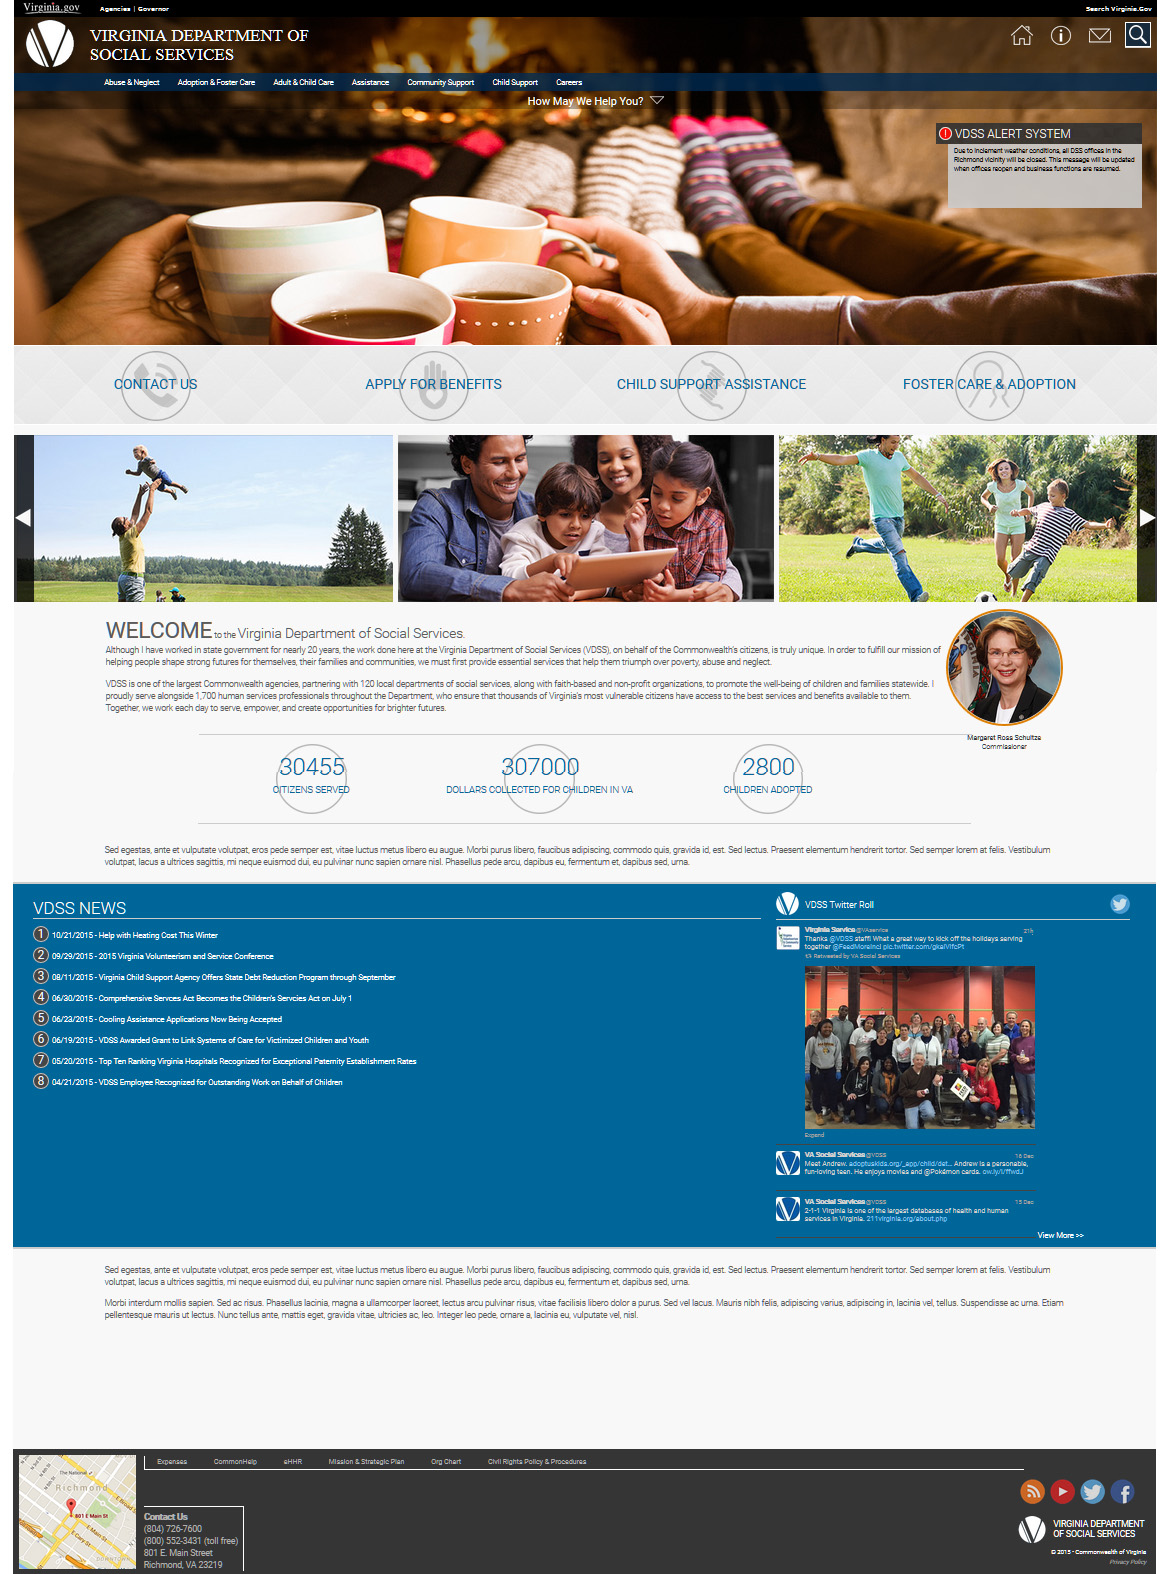
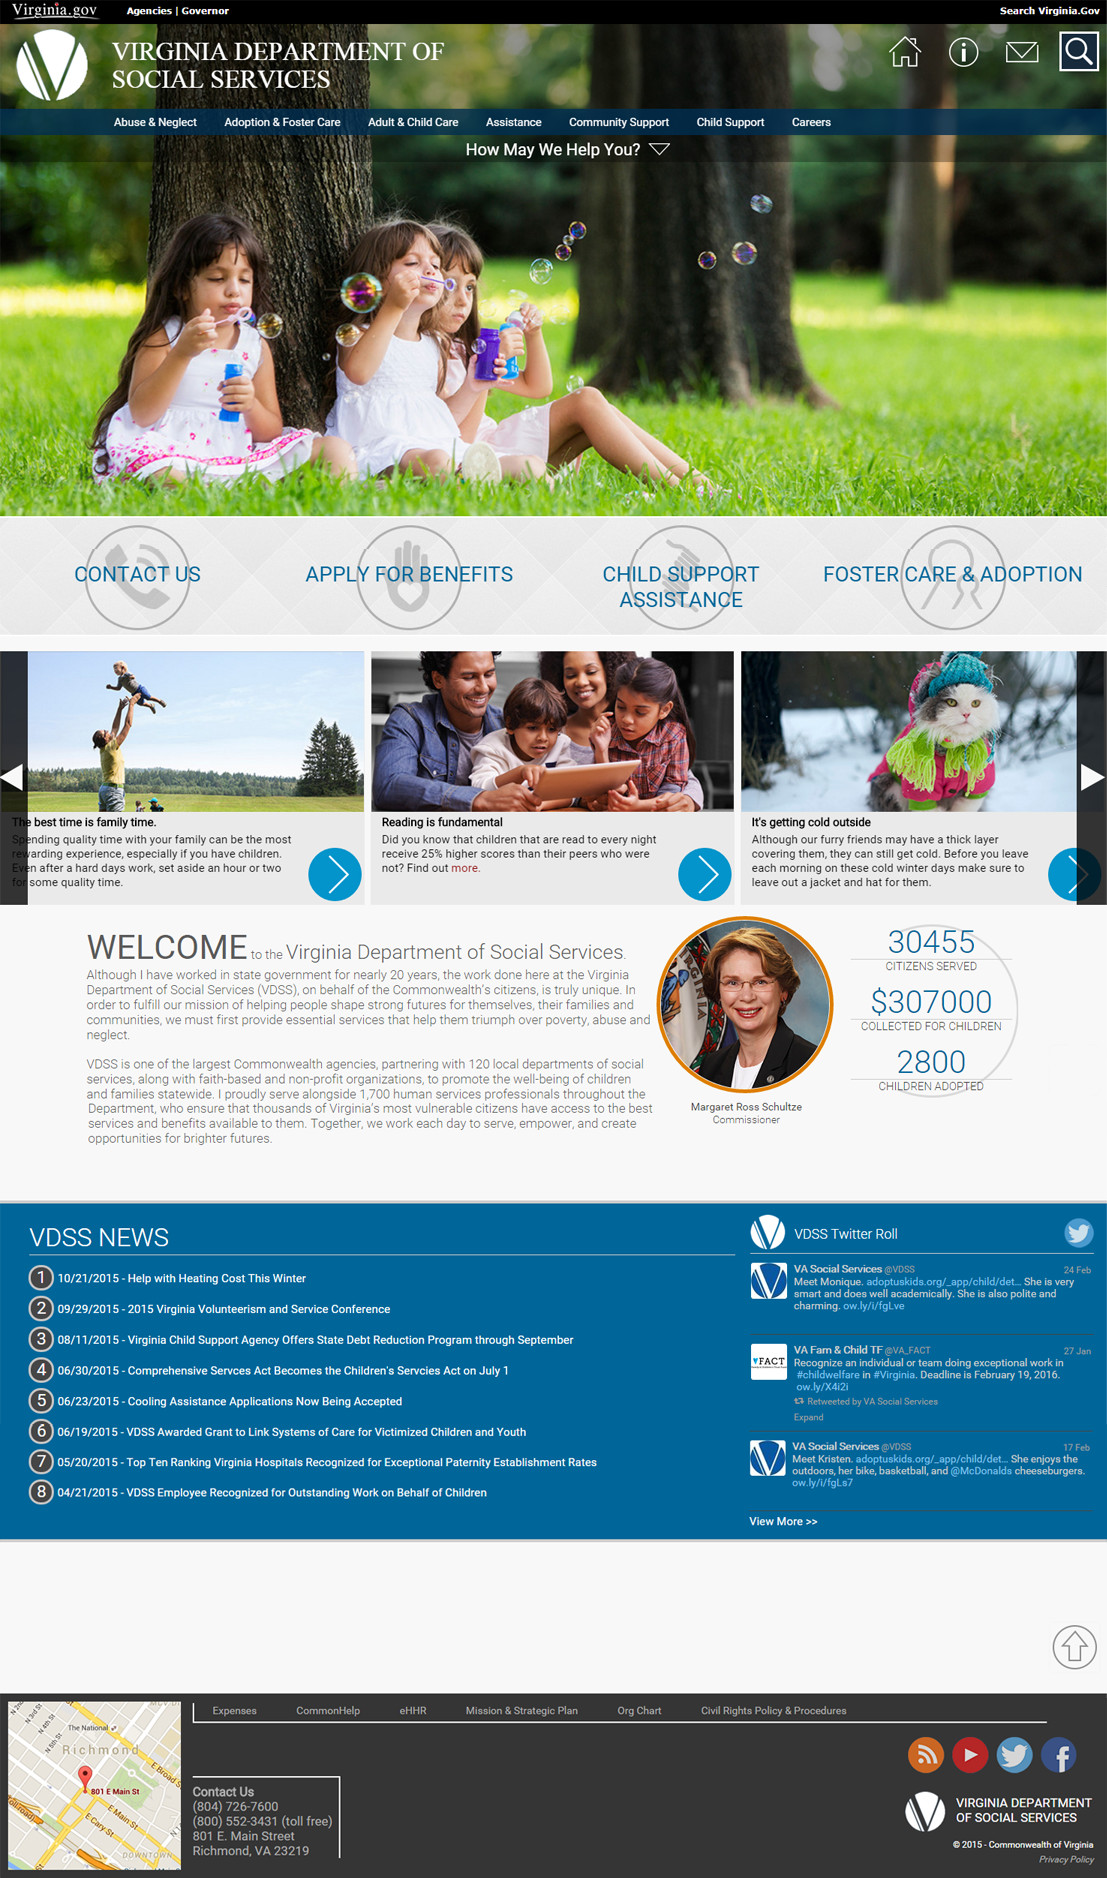
added spin arrow and color titles to resume, updated vdss_home screenshot, removed br from wedding screenshots

diff --git a/resume/index.html b/resume/index.html
@@ -114,7 +114,8 @@
 			 <hr/>
 			 <h3>Skills</h3>
 			 <div class="col-md-12 text-center skills" style="padding-top: 50px;">
-			 <p>Scroll Down for awesomeness</p>
+			 <p>Scroll Down for awesomeness<br/>
+			 <img src="../assets/img/spin_arrow2.gif" alt="arrow pointing down"/></p>
 			 </div>
 			<div class="row">
 			<div class="col-lg-4 col-md-4 col-sm-12">
@@ -133,7 +134,7 @@
 			<h3>Work Experience</h3>
 			<p>April 2015 - Present</p>
 			<p>Virginia Department of Social Services</p>
-			<p><strong>Multimedia Designer</strong></p>
+			<p class="job_title"><strong>Multimedia Designer</strong></p>
 			<ul>
 				<li>Leading the design of the main VDSS, Intranet and supplemental sites</li>
 				<li>Guiding the adoption and cultural shift of agency's Content Management System implementation</li>
@@ -148,7 +149,7 @@
 
 			<p>August 2013 - April 2015</p>
 			<p>Virginia Tech: Networked Learning Initiatives</p>
-			<p><strong>UI/UX Designer</strong></p>
+			<p class="job_title"><strong>UI/UX Designer</strong></p>
 			<p>Title: Assistant Director of Technology-enhanced Communications Initiatives</p>
 			<ul>
 				<li>Led the UI design and assisted in the implementation of the NLI Enrollment and Computer ordering system powered by Django, HTML5, CSS3 and JQuery through the use of agile development methods</li>
@@ -163,7 +164,7 @@
 			<hr/>
 			<p>January 2010 - August 2013</p>
 			<p>Virginia Tech: Faculty Development Institute</p>
-			<p><strong>Training and Documentation Specialist</strong></p>
+			<p class="job_title"><strong>Training and Documentation Specialist</strong></p>
 			<ul>
 				<li>Led courses focused in UI design and UX fundamentals and exploration</li>
 				<li id="hr_portal">Instructed Faculty, Staff and Graduate students via short courses in Adobe Dreamweaver, Adobe Photoshop, Rythmx Percussion CM System, and Qualtrics Survey</li>
@@ -176,7 +177,7 @@
 			<hr/>
 			<p>December 2007 - January 2010</p>
 			<p>Virginia Tech: Human Resources</p>
-			<p><strong>HR Portal Technical Support Specialist</strong></p>
+			<p class="job_title"><strong>HR Portal Technical Support Specialist</strong></p>
 			<ul>
 				<li>Redesigned, developed and maintained the Human Resources Portal</li>
 				<li>Developed web applications using PHP, MySQL, and JavaScript</li>

diff --git a/portfolio/wedding.html b/portfolio/wedding.html
@@ -122,7 +122,7 @@
 				<h1>Mockups</h1>
 				<h4>Wedding Site Design</h4>
 			<div class="gallery">
-				<a data-lightbox="wed" href="../images/wedding/wed_home.jpg" title="Wedding Homepage"  class="comp"><img class="small_img" src="../images/wedding/wed_home.jpg" alt="Wedding Homepage"></a><br/>
+				<a data-lightbox="wed" href="../images/wedding/wed_home.jpg" title="Wedding Homepage"  class="comp"><img class="small_img" src="../images/wedding/wed_home.jpg" alt="Wedding Homepage"></a>
 				<a data-lightbox="wed" href="../images/wedding/wed_int.jpg" title="Wedding Internal Site"  class="comp"><img class="small_img" src="../images/wedding/wed_int.jpg" alt="Wedding Internal Site"></a>
 			</div>
         </div>

diff --git a/assets/css/mystyle.css b/assets/css/mystyle.css
@@ -451,6 +451,9 @@ a.facebook:hover, a.linkedin:hover, a.blog:hover, a.github:hover{
 	color: #FFF;
 	text-decoration: none;
 	}
+.job_title{
+	color: #006699;
+	}
 /*-- Lightbox --*/
 .gallery img {
     margin-top: 10px !important;
